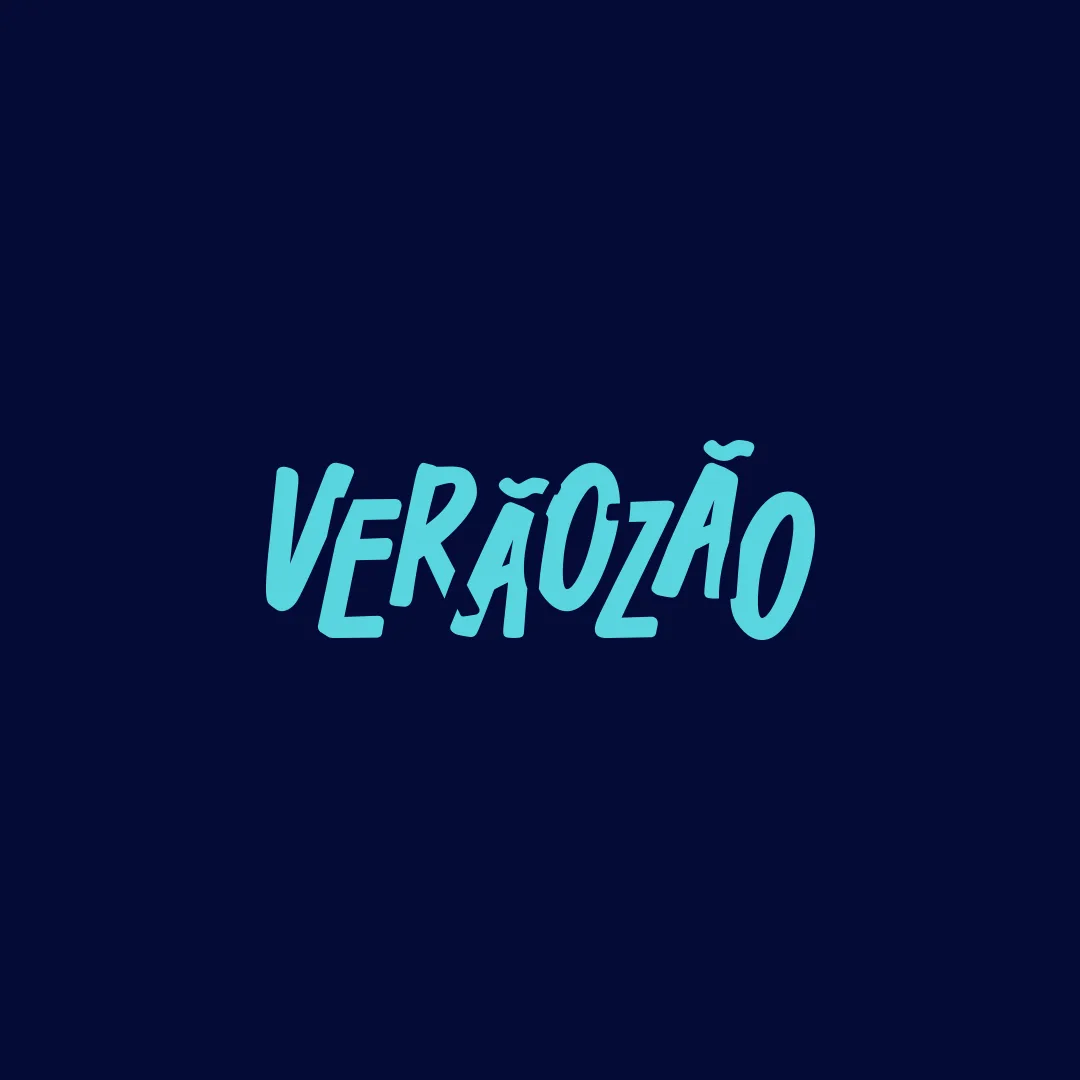
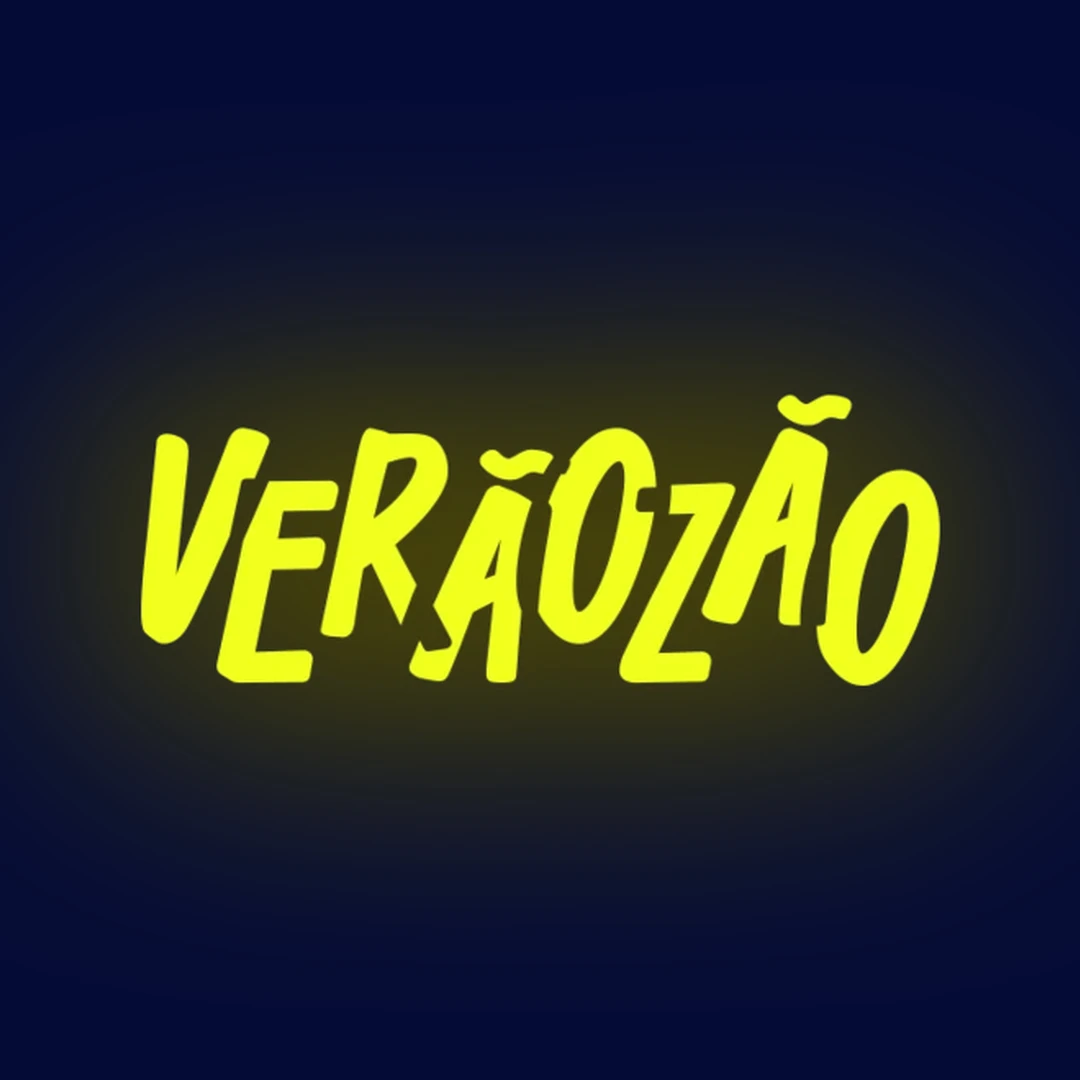
capa do VERAOZAO, cantos menos redondos e o rodape do site inteiro
1. CAPA DO VERAOZAO no tratamento do pitch: o wordmark AMARELO com o blur
   (public/images/pitch/veraozao/veraozao-wordmark.webp, o mesmo asset) sobre
   o azul chapado #040B36, que ja era o fundo da capa. O glifo passou de 51%
   para 74% da largura: era esse o "mais legivel". O escalonamento mede o
   GLIFO, nao o halo, e centraliza pelo centro do glifo, senao o halo
   assimetrico desloca a palavra. A capa ciano foi para public/_ARQUIVO.

2. CANTOS MENOS ARREDONDADOS no site inteiro: card 18 -> 14, tile 12 -> 10.
   Token, nao componente: quem usa herda.

3. LETREIROS MAIS RAPIDOS, os dois (CURRENTLY EXPLORING e cidades do rodape):
   40s -> 26s por volta.

4. RODAPE, e vale para o site inteiro:
   - o letreiro de cidades passa a ter o fundo do RODAPE, nao o preto do
     letreiro pinado, que cortava o bloco em dois. As reguas pontilhadas
     continuam delimitando.
   - os dois pesos abrem contraste: 350/500 vira 300/800. Estado e cidade
     agora se separam a um olhar.
   - o LinkedIn passa a ser o mesmo glifo do hero (FlatIcon), o `in` cheio,
     e nao o desenho de contorno que so existia aqui.
   - a seta de nova guia nao desce mais sozinha: NBSP no ::before em vez de
     margin-left, entao ela nao tem ponto de quebra antes. Sem
     `white-space: nowrap`, que a casa proibe. Isso conserta o "LAW
     ENFORCEMENT GUIDELINES" e vale para toda seta do site.
   - o bloco LEGAL ganha align-items: start e folga vertical maior: um item
[…]

diff --git a/src/styles/components.css b/src/styles/components.css
@@ -775,10 +775,15 @@
   text-align: left;
 }
 
+/* O BLOCO LEGAL (11/09/2026, "o primeiro esta ok, o segundo precisamos
+   ajustar"): duas colunas em que um item quebra em duas linhas e o vizinho
+   nao, entao as linhas ficavam desencontradas. `align-items: start` e folga
+   vertical maior deixam cada celula comecar na mesma altura. */
 .footer__grid--nav > :last-child .footer__nav-list {
   display: grid;
   grid-template-columns: 1fr 1fr;
-  gap: var(--tbf-space-3) var(--tbf-space-6);
+  align-items: start;
+  gap: var(--tbf-space-5) var(--tbf-space-6);
 }
 
 @media (min-width: 1024px) {
@@ -834,11 +839,14 @@
    bloco no rodapé. */
 
 /* Copyright row */
+/* As tres frases finais (CNPJ, endereco, versao) ganharam ar (11/09/2026):
+   space-6 colava o bloco no LEGAL logo acima e as quatro coisas liam como uma
+   lista so. */
 .footer__copyright {
   display: flex;
   flex-direction: column;
   gap: var(--tbf-space-2);
-  margin-top: var(--tbf-space-6);
+  margin-top: var(--tbf-space-12);
 }
 
 /* As três linhas do copyright na MESMA cor, um degrau mais clara que o resto do
@@ -1369,8 +1377,11 @@
    A classe continua existindo como ponto de encaixe: a diferença entre os dois
    letreiros passa a ser só uma, o de cima é pinado e o de baixo corre no fluxo
    (`.ticker--flow`). */
+/* O letreiro de cidades usa o fundo do RODAPE, nao o preto do letreiro pinado
+   (11/09/2026): ele mora dentro do rodape, e a faixa preta cortava o bloco em
+   dois. As reguas pontilhadas continuam, sao elas que o delimitam agora. */
 .ticker--cities {
-  background-color: var(--tbf-ticker-bg);
+  background-color: var(--tbf-footer-bg);
 }
 
 /* LOOP SEM COSTURA (correção 2026-07-30, mesma da .press-carousel-track).
@@ -1415,8 +1426,11 @@
    as palavras que estão thin e aumente para uma fonte só um pouco mais bold").
    Thin é 100, e num corpo de 14px correndo em movimento sobre preto a haste
    quase some. Book é 350, o degrau seguinte que a família tem de verdade. */
-.ticker__seg--book   { font-weight: var(--tbf-font-weight-raw-350); }
-.ticker__seg--medium { font-weight: var(--tbf-font-weight-raw-500); }
+/* CONTRASTE MAIOR ENTRE OS DOIS PESOS (11/09/2026): o que era bold vira
+   extrabold e o que era thin vira light. 350/500 era um degrau pequeno demais
+   para ler correndo; 300/800 separa estado de cidade a um olhar. */
+.ticker__seg--book   { font-weight: var(--tbf-font-weight-raw-300); }
+.ticker__seg--medium { font-weight: var(--tbf-font-weight-raw-800); }
 .ticker__seg--black  { font-weight: var(--tbf-font-weight-raw-900); }
 
 /* 🔴 O RESPIRO ENTRE SEGMENTOS MORA AQUI, e não no item, desde que o ponto
@@ -3383,11 +3397,15 @@ html[data-morphing] ::view-transition-new(root) {
    `display: inline-block` com `translate` no lugar de `vertical-align`: assenta
    a ponta da seta na altura da maiúscula sem mexer na altura da linha.
    ============================================================================= */
+/* A SETA NAO DESCE SOZINHA (11/09/2026): "LAW ENFORCEMENT GUIDELINES" quebrava
+   em duas linhas e a seta caia orfa na terceira. O espaco antes dela passa a
+   ser um NBSP no ::before, que nao e ponto de quebra: a seta fica colada na
+   ultima palavra sem precisar de `white-space: nowrap`, que a casa proibe. */
+.newtab-icon::before { content: '\00a0'; }
 .newtab-icon {
   display: inline-block;
   font-size: 0.72em;
   line-height: 1;
-  margin-left: 0.22em;
   transform: translateY(-0.06em);
   /* A seta é decoração do link, não do texto: sublinhado dela sai. */
   text-decoration: none;

diff --git a/src/styles/tokens.css b/src/styles/tokens.css
@@ -134,6 +134,7 @@
   --tbf-duration-raw-900:  900ms;
   --tbf-duration-raw-1200: 1200ms;
   --tbf-duration-raw-2000: 2000ms;
+  --tbf-duration-raw-26s:  26s;
   --tbf-duration-raw-40s:  40s;
 
   /* ─── 1.5 Easing Primitives ─── */
@@ -152,7 +153,9 @@
      fundador: "bordas arredondadas, sempre", então há um degrau para cada
      tamanho de caixa, e ninguém mais chuta um px cru. */
   --tbf-radius-raw-8:    8px;
+  --tbf-radius-raw-10:   10px;
   --tbf-radius-raw-12:   12px;
+  --tbf-radius-raw-14:   14px;
   --tbf-radius-raw-18:   18px;
   --tbf-radius-raw-full: 9999px;
 
@@ -416,7 +419,10 @@
   --tbf-motion-easing-loading-enter:   var(--tbf-easing-raw-ease-out);
   --tbf-motion-easing-loading-exit:    var(--tbf-easing-raw-ease-in);
 
-  --tbf-motion-duration-ticker: var(--tbf-duration-raw-40s);
+  /* Letreiro mais rapido (11/09/2026, pedido dele nos dois: o de CURRENTLY
+     EXPLORING e o de cidades do rodape). 40s -> 26s por volta, uns 35% mais
+     veloz. O REPEAT do Ticker continua multiplicando isto por 3. */
+  --tbf-motion-duration-ticker: var(--tbf-duration-raw-26s);
   --tbf-motion-easing-ticker:   var(--tbf-easing-raw-linear);
 
   --tbf-motion-duration-form-focus:   var(--tbf-duration-raw-200);
@@ -435,8 +441,11 @@
      marcadores do /pitch). Tile = miniatura/quadro de imagem. Card = cartão,
      popup, banner. */
   --tbf-radius-chip:   var(--tbf-radius-raw-8);
-  --tbf-radius-tile:   var(--tbf-radius-raw-12);
-  --tbf-radius-card:   var(--tbf-radius-raw-18);
+  /* CANTOS UM POUCO MENOS REDONDOS (11/09/2026): "tô achando eles arredondados
+     DEMAIS e eu gosto, mas não precisa de tanto". Card 18 -> 14, tile 12 -> 10.
+     Mexer AQUI e nao em cada componente: o raio e token, e quem usa herda. */
+  --tbf-radius-tile:   var(--tbf-radius-raw-10);
+  --tbf-radius-card:   var(--tbf-radius-raw-14);
 
   /* ─── 2.10 Z-Index Semantic ─── */
   --tbf-z-below:   var(--tbf-z-raw-below);

diff --git a/src/components/Footer/Footer.tsx b/src/components/Footer/Footer.tsx
@@ -7,6 +7,7 @@ import { TbfLink as Link } from '@/components/TbfLink/TbfLink'
 import Image from 'next/image'
 import { CookiePrefsButton } from '@/components/CookiePrefs/CookiePrefsButton'
 import { Ticker, type TickerSegment } from '@/components/Ticker/Ticker'
+import { FlatIcon } from '@/components/icons/FlatIcon'
 import deployCount from '@/data/deploy-count.json'
 import { localizedPath, type Lang } from '@/lib/i18n'
 import { shell } from '@/content/i18n/shell'
@@ -92,13 +93,10 @@ export function Footer({ lang }: { lang: Lang }) {
                 aria-label="LinkedIn"
                 className="footer__social"
               >
-                <svg width="18" height="18" viewBox="0 0 24 24" fill="none" stroke="currentColor" strokeWidth="1.3" strokeLinecap="round" aria-hidden="true">
-                  <rect x="3" y="3" width="18" height="18" rx="5" />
-                  <line x1="8" y1="11" x2="8" y2="16.4" />
-                  <circle cx="8" cy="7.9" r="0.7" fill="currentColor" stroke="none" />
-                  <path d="M12 16.4V11" />
-                  <path d="M12 13.4a2.3 2.3 0 0 1 4.6 0v3" />
-                </svg>
+                {/* Mesmo glifo do hero do Tavaristico (11/09/2026, pedido dele):
+                    o `in` cheio do FlatIcon, e nao o desenho de contorno que
+                    existia so aqui. Uma marca, um icone, no site inteiro. */}
+                <FlatIcon name="linkedin" size={18} />
               </a>
             </div>
           </div>
